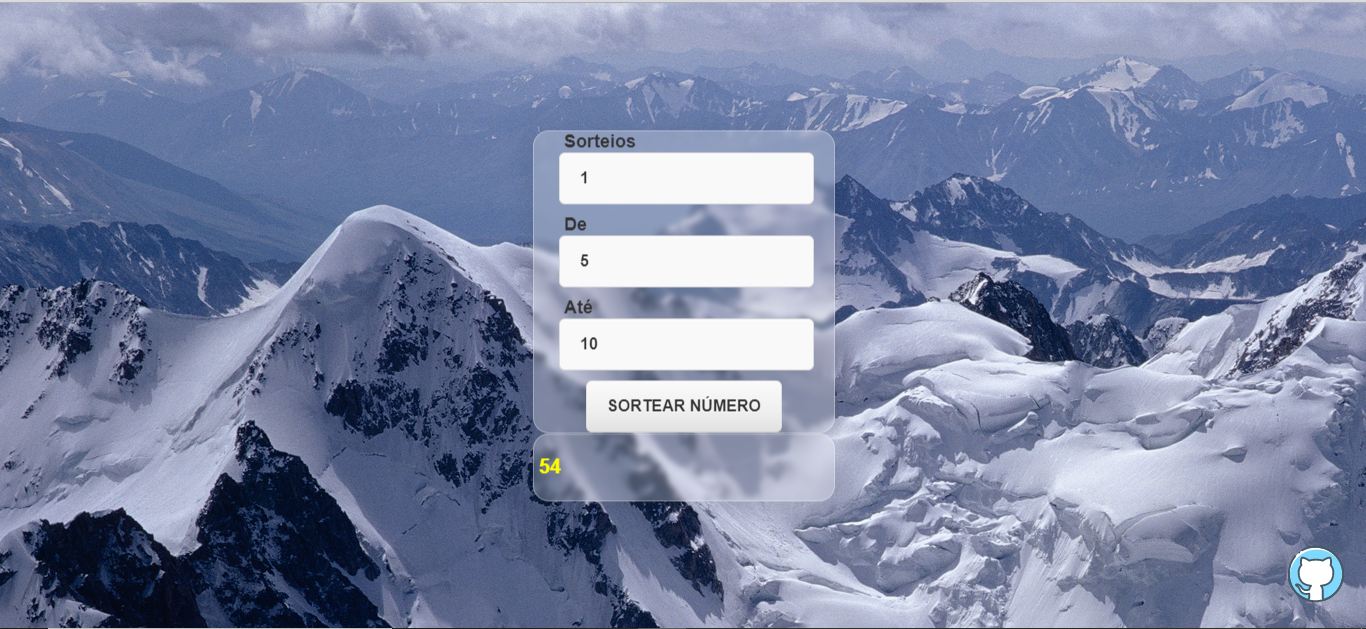
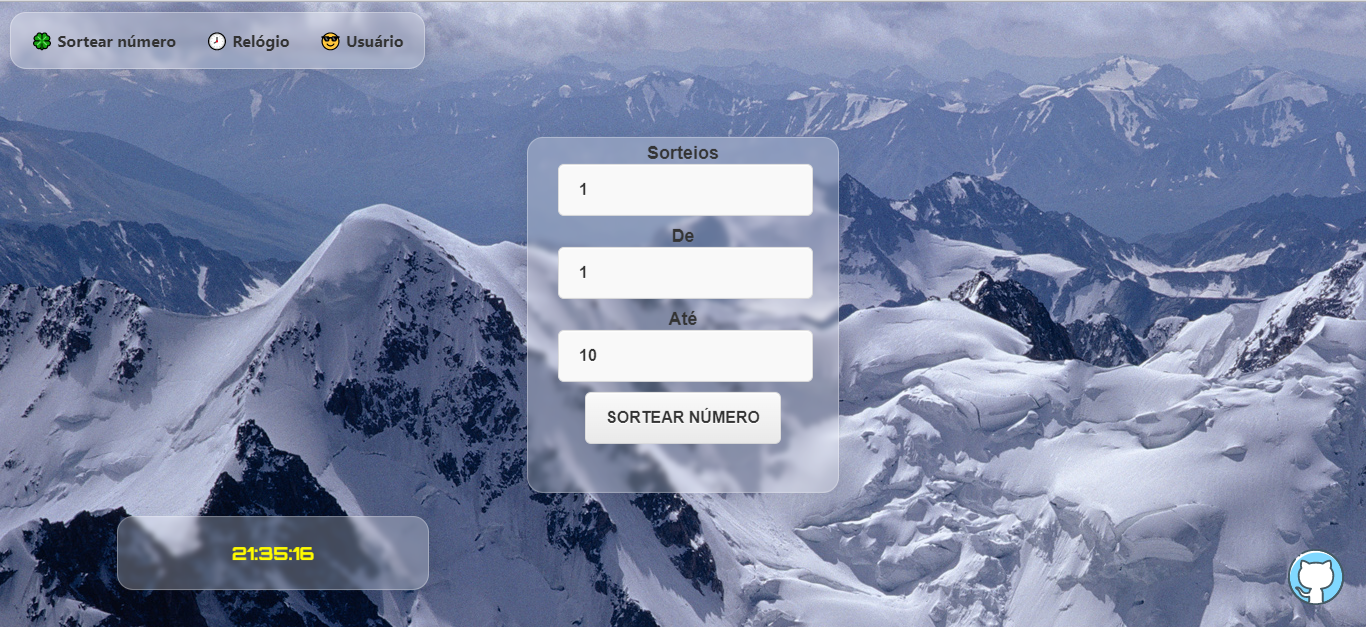
🗿🍷
Update readme and preview

diff --git a/README.md b/README.md
@@ -1,13 +1,12 @@
 # 🍀 SORTEADOR DE NÚMEROS 🍀
 
-## Um modelo de site feito em React para sortear números aleatórios. Inspirado no site sorteador.com.br
+## Um modelo de site feito em React para sortear números aleatórios.
 
 versão: 221030
 
 ## Ajude-nos, a melhorar o site 🤩❤ 
 
     FEITO POR: https://github.com/LucasATS
-    INSPIRADO EM: sorteador.com.br/
     IMAGENS DE FUNDO FORAM EXTRAIDOS DO SITE: wall.alphacoders.com
 
 [![preview](./preview.png)](https://lucasats.github.io/Sorteador-de-numeros/)
@@ -16,9 +15,13 @@ versão: 221030
 > npm start
 > npm run deploy
 
+> Instale: npm install axios e npm i -D react-router-dom
+
 ## __🎯 METAS__
-- [ ] Remover bugs.
+- [X] 🕗 Add relógio.
+- [X] Remover bugs.
 - [ ] Sortear nomes.
+  - [x] Ler Json com nomes
 - [ ] SEO.
 - [X] Adição de estilo e interface gráfica.
 - [x] Montagem básica.
